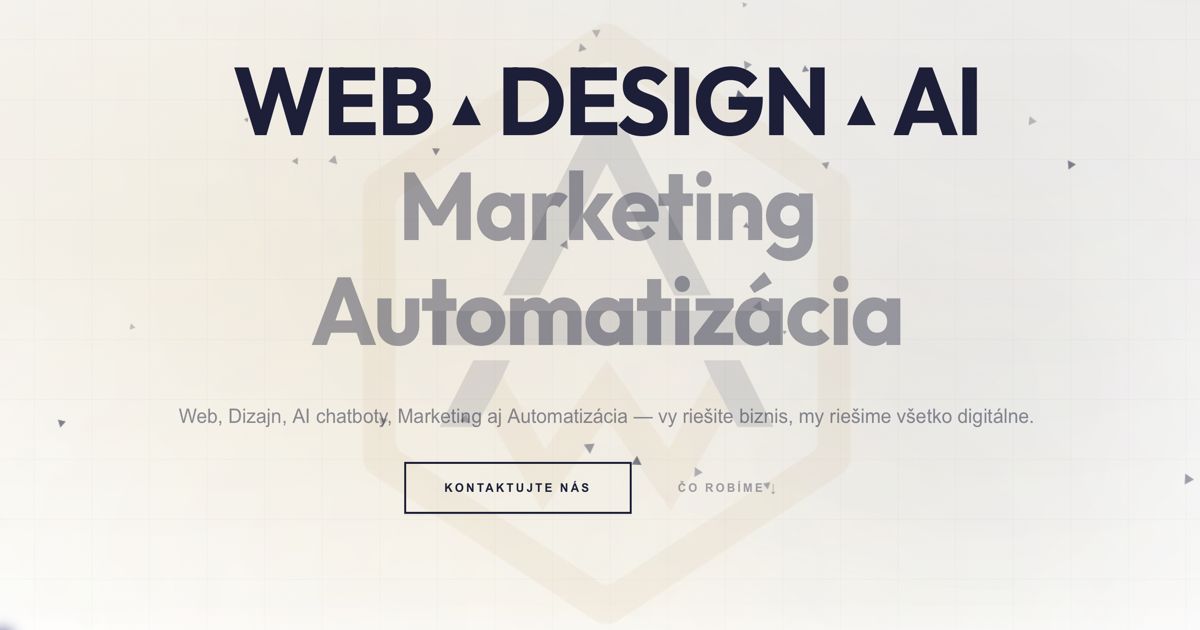
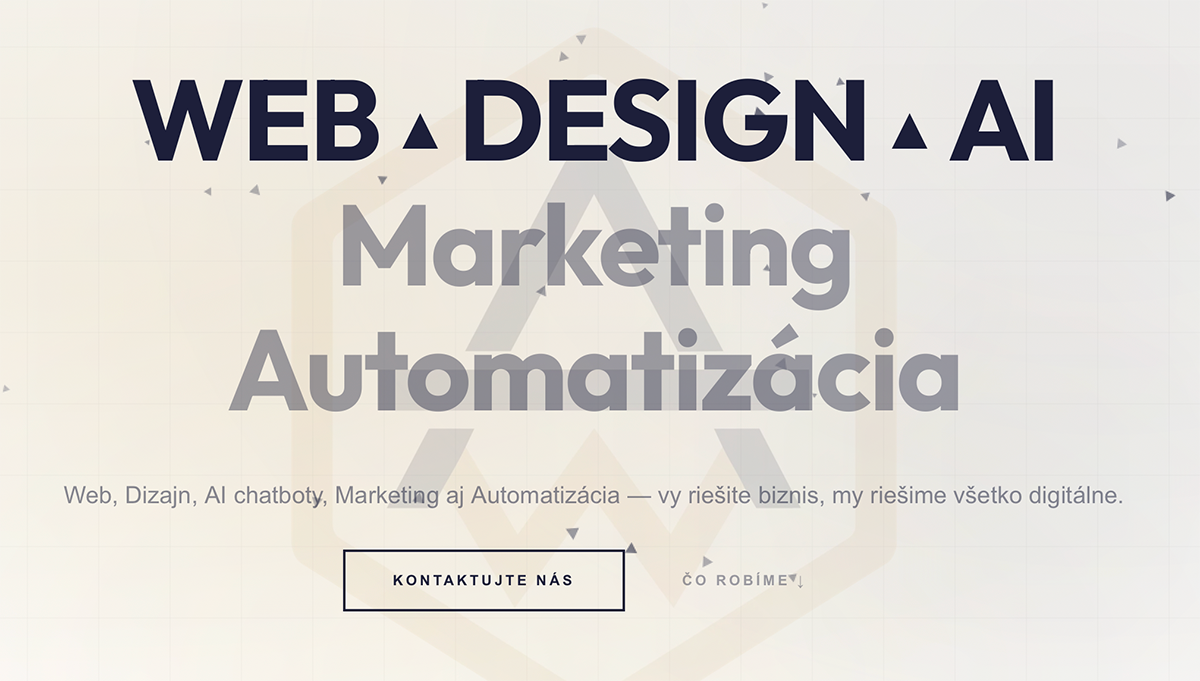
fix: restore sharp og-image, correct height to 681px in metadata

diff --git a/src/app/layout.tsx b/src/app/layout.tsx
@@ -21,7 +21,7 @@ export const metadata: Metadata = {
       {
         url: "/og-image.png",
         width: 1200,
-        height: 630,
+        height: 681,
         alt: "AIWai — Web, Dizajn, AI & Automatizácia",
       },
     ],